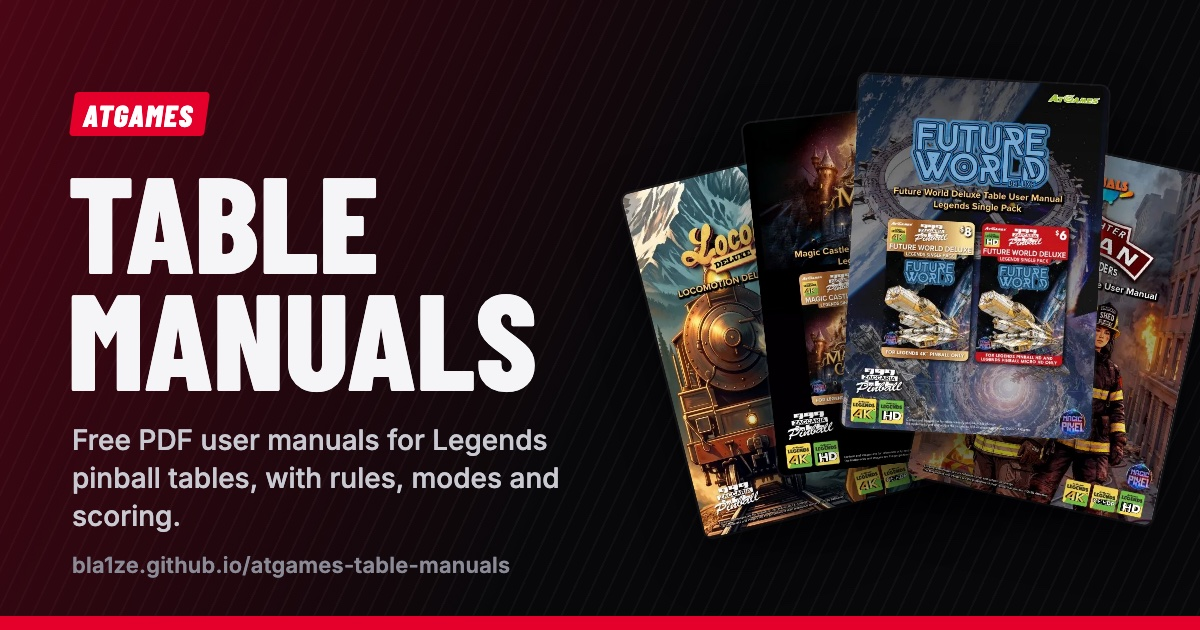
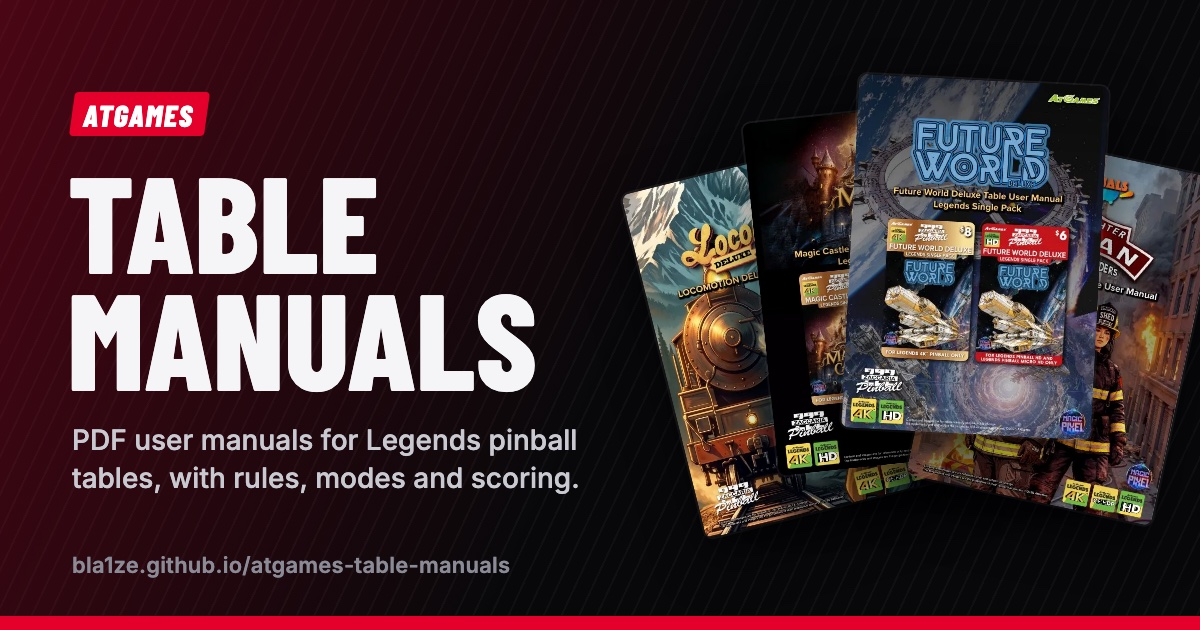
Manuals site: drop "free" from the copy and share image
Claude-Session: https://claude.ai/code/session_01GZYNK4JhPSyXaPdn2KdgrP

Changed region(s): [[0.0617, 0.6635, 0.4933, 0.8444]]

diff --git a/site/public/index.html b/site/public/index.html
@@ -4,13 +4,13 @@
 <meta charset="utf-8">
 <meta name="viewport" content="width=device-width, initial-scale=1">
 <title>AtGames Table Manuals</title>
-<meta name="description" content="User manuals for AtGames Legends pinball tables: Zaccaria Deluxe and EM+, TAITO, Natural History, Dr. Seuss and more. Free PDF downloads.">
+<meta name="description" content="User manuals for AtGames Legends pinball tables: Zaccaria Deluxe and EM+, TAITO, Natural History, Dr. Seuss and more. PDF downloads.">
 <meta name="theme-color" content="#0c0c0e">
 <link rel="canonical" href="https://bla1ze.github.io/atgames-table-manuals/">
 <meta property="og:type" content="website">
 <meta property="og:site_name" content="AtGames Table Manuals">
 <meta property="og:title" content="AtGames Table Manuals">
-<meta property="og:description" content="Free PDF user manuals for AtGames Legends pinball tables, with rules, modes and scoring.">
+<meta property="og:description" content="PDF user manuals for AtGames Legends pinball tables, with rules, modes and scoring.">
 <meta property="og:url" content="https://bla1ze.github.io/atgames-table-manuals/">
 <meta property="og:image" content="https://bla1ze.github.io/atgames-table-manuals/og-image.jpg">
 <meta property="og:image:width" content="1200">
@@ -18,7 +18,7 @@
 <meta property="og:image:alt" content="AtGames Table Manuals: a fan of pinball table manual covers">
 <meta name="twitter:card" content="summary_large_image">
 <meta name="twitter:title" content="AtGames Table Manuals">
-<meta name="twitter:description" content="Free PDF user manuals for AtGames Legends pinball tables, with rules, modes and scoring.">
+<meta name="twitter:description" content="PDF user manuals for AtGames Legends pinball tables, with rules, modes and scoring.">
 <meta name="twitter:image" content="https://bla1ze.github.io/atgames-table-manuals/og-image.jpg">
 <link rel="preconnect" href="https://fonts.googleapis.com">
 <link rel="preconnect" href="https://fonts.gstatic.com" crossorigin>
@@ -95,7 +95,7 @@
 <section class="hero"><div class="hero-in">
   <p class="kicker">HD &middot; Micro &middot; 4KP &middot; HDP</p>
   <h1>Table Manuals</h1>
-  <p>User manuals for AtGames Legends pinball tables: rules, modes, shots and scoring for every table and pack, as free PDFs.</p>
+  <p>User manuals for AtGames Legends pinball tables: rules, modes, shots and scoring for every table and pack, as PDFs.</p>
 </div></section>
 
 <div class="controls">

diff --git a/site/og/og.html b/site/og/og.html
@@ -22,7 +22,7 @@
   <div class="text">
     <span class="tag">AtGames</span>
     <h1>Table<br>Manuals</h1>
-    <p>Free PDF user manuals for Legends pinball tables, with rules, modes and scoring.</p>
+    <p>PDF user manuals for Legends pinball tables, with rules, modes and scoring.</p>
   </div>
   <div class="url">bla1ze.github.io/atgames-table-manuals</div>
   <div class="fan">
